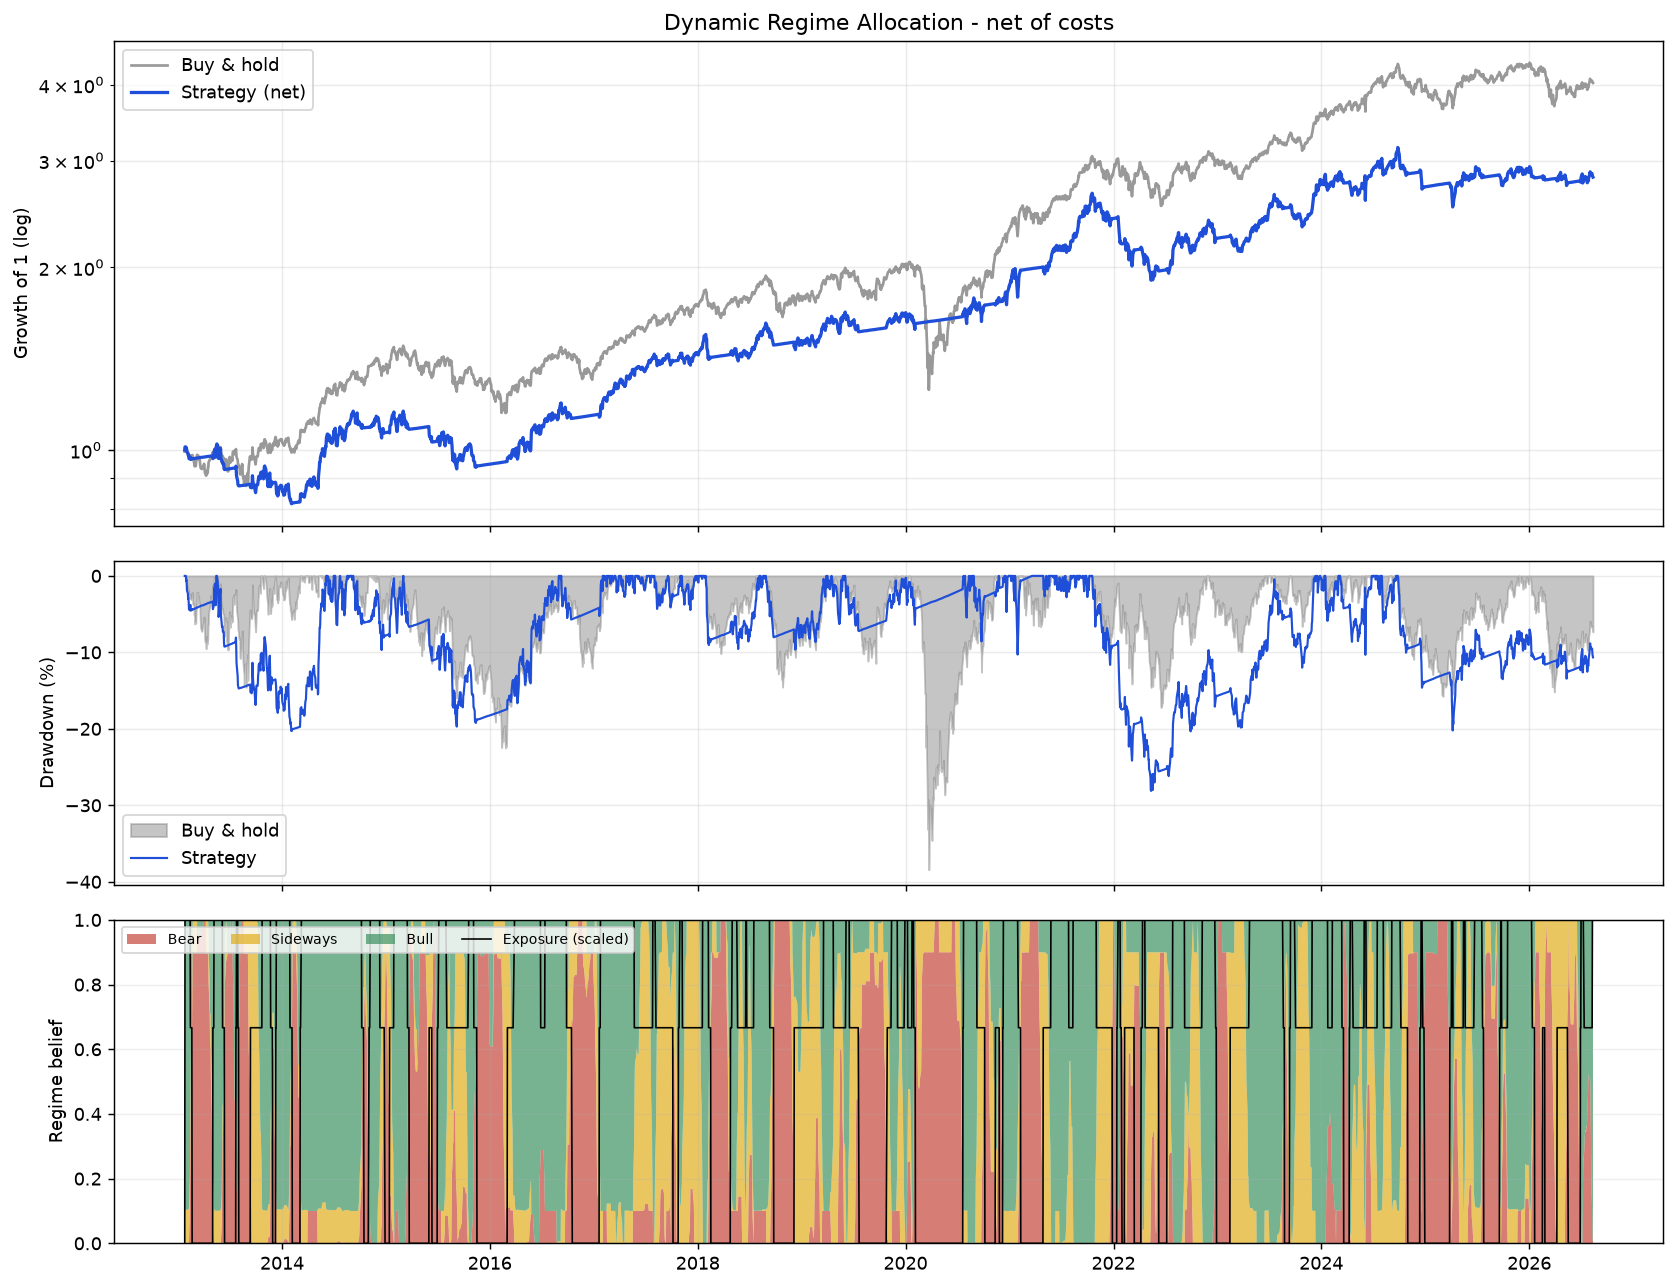
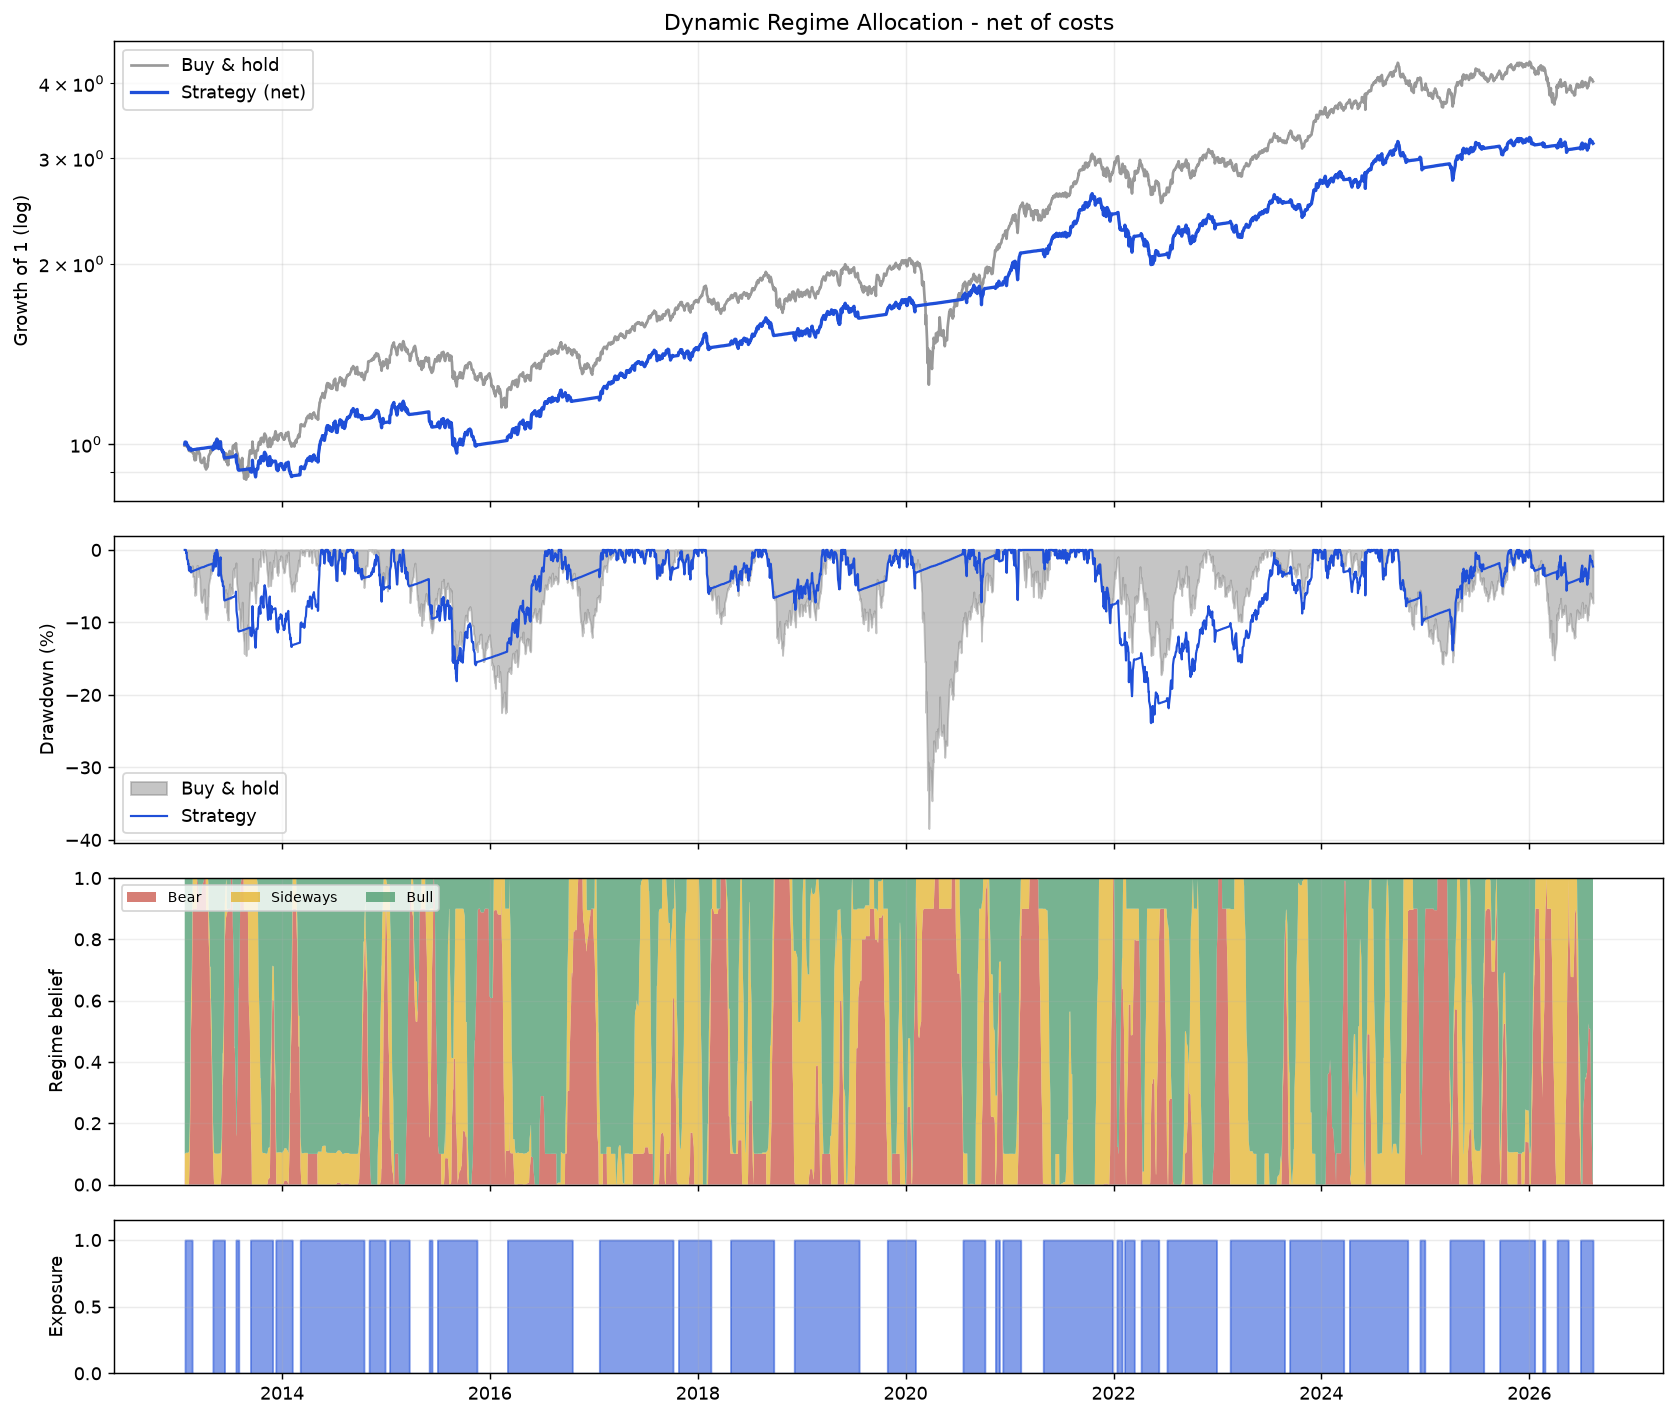
Rewrite README around measured results; add LICENSE and chart fixes
The README's headline numbers came from a backtest with several accounting
bugs, so every figure is re-measured and re-stated:

- Report the honest comparison. The strategy trails buy & hold on CAGR and
  Sharpe and wins on drawdown and Calmar; say so plainly rather than leading
  with a near-tie on total return.
- Correct the backtest period to 2013-2026. The first 1,250 days are the
  initial training window; padding them with a uniform prior kept the strategy
  in cash through 2008 and produced a flat line that read as regime detection
  but was an untrained model sitting in cash at 6%.
- Document the 1.5x tier as off by default, with the side-by-side showing it
  loses on every risk-adjusted measure once financing and turnover are charged.
- Add a known-limitations section covering the warm-up, the single-asset
  sample, the unfitted thresholds, and close-fill assumptions.

Also: widen the metrics column so the date range stops colliding with the next
column, move exposure out of the belief stack into its own panel (as an overlay
its 0/1 flips drew a vertical line per transition and read as a picket fence),
and add the MIT LICENSE file the badge has always claimed.

diff --git a/regime_allocation/reporting.py b/regime_allocation/reporting.py
@@ -67,7 +67,7 @@ def plot_results(
     import matplotlib.pyplot as plt
 
     fig, axes = plt.subplots(
-        3, 1, figsize=(13, 10), sharex=True, gridspec_kw={"height_ratios": [3, 2, 2]}
+        4, 1, figsize=(13, 11), sharex=True, gridspec_kw={"height_ratios": [3, 2, 2, 1]}
     )
 
     ax = axes[0]
@@ -102,12 +102,21 @@ def plot_results(
         labels=["Bear", "Sideways", "Bull"],
         alpha=0.65,
     )
-    ax.plot(results.index, results["Position"] / max(results["Position"].max(), 1e-9),
-            color="black", linewidth=0.9, label="Exposure (scaled)")
     ax.set_ylim(0, 1)
     ax.set_ylabel("Regime belief")
-    ax.legend(loc="upper left", ncol=4, fontsize=8)
+    ax.legend(loc="upper left", ncol=3, fontsize=8)
     ax.grid(True, alpha=0.2)
+
+    # Exposure gets its own panel: overlaid on the belief stack, the 0/1 flips
+    # drew a vertical line at every transition and read as a picket fence.
+    ax = axes[3]
+    ax.fill_between(
+        results.index, results["Position"], 0, step="post", color="#1f4fd8", alpha=0.55
+    )
+    ax.set_ylim(0, max(float(results["Position"].max()) * 1.15, 1.15))
+    ax.set_ylabel("Exposure")
+    ax.set_xlabel("")
+    ax.grid(True, alpha=0.25)
 
     fig.tight_layout()
     if save_path:

diff --git a/regime_allocation/metrics.py b/regime_allocation/metrics.py
@@ -147,7 +147,7 @@ def _format(value, kind: str, stats: dict) -> str:
 def comparison_table(*stat_blocks: dict) -> str:
     """Render two or more statistics blocks side by side as a fixed-width table."""
     labels = [str(block.get("label", f"col{i}")) for i, block in enumerate(stat_blocks)]
-    width = max(22, *(len(label) + 2 for label in labels))
+    width = max(26, *(len(label) + 2 for label in labels))  # 26 fits "YYYY-MM-DD to YYYY-MM-DD"
     lines = ["Metric".ljust(26) + "".join(label.rjust(width) for label in labels)]
     lines.append("-" * len(lines[0]))
     for title, key, kind in _ROWS:

diff --git a/README.md b/README.md
@@ -1,101 +1,233 @@
-# Dynamic-Regime-Allocation 
+# Dynamic-Regime-Allocation
 
-### A Fee-Aware, Regime-Switching Asset Allocation Strategy using Gaussian HMMs
+### A fee-aware, regime-switching allocation strategy using Gaussian HMMs
 
-![Python](https://img.shields.io/badge/Python-3.8%2B-blue)
+![Python](https://img.shields.io/badge/Python-3.9%2B-blue)
 ![License](https://img.shields.io/badge/License-MIT-green)
-![Status](https://img.shields.io/badge/Status-Active-success)
+![Tests](https://img.shields.io/badge/tests-49%20passing-success)
 
-## 📖 Overview
+## Overview
 
-**Dynamic-Regime-Allocation** is a quantitative trading strategy designed for the **Nifty 50** index. Unlike traditional forecasting models that attempt to predict exact prices, this system uses **Unsupervised Learning (Gaussian Hidden Markov Models)** to decode latent market regimes (Bull, Bear, and Sideways).
+**Dynamic-Regime-Allocation** allocates between the **Nifty 50** and cash. Rather
+than forecasting prices, it uses an unsupervised **Gaussian Hidden Markov Model**
+to infer which of three latent regimes — bull, sideways, bear — the market is
+currently in, and sizes exposure from those probabilities.
 
-The primary objective is **Risk-Adjusted Return**. The strategy dynamically adjusts portfolio leverage based on the identified regime, aiming to capture market upside while preserving capital during structural downtrends (e.g., 2008, 2020).
-
-> **Key Differentiator:** This is not a theoretical model. It includes a rigorous **Transaction Cost Analysis (TCA)**, factoring in brokerage fees, slippage, and the yield on idle cash (Liquid BeEs), making the results audit-ready and deployable.
-
----
-
-## Performance (2007–2025)
-
-The strategy was backtested over an 18-year period covering multiple market cycles.
-
-| Metric | Market (Buy & Hold) | HMM Strategy |
-| :--- | :--- | :--- |
-| **Net Return** | **319.27%** | **311.01%** |
-| **Drawdown Risk** | High (-60% in 2008) | Significantly Reduced |
-| **Total Trades** | N/A | **57** (Low Churn) |
-| **Fees Paid** | 0.0% | ~5.6% of Capital |
-
-**Visual Analysis:**
-The strategy matches the market's long-term compounding but avoids the "emotional torture" of deep drawdowns. Note the flat-lining (protection) during the 2008 and 2020 crashes.
-
-<img width="2559" height="1514" alt="image" src="https://github.com/user-attachments/assets/78c80e27-fb17-455d-8f0b-9da460899ad8" />
+The model is fit **walk-forward**: every 10 trading days it is refit on the
+trailing 5 years and then scores only the 10 days that follow. No parameter,
+scaler, or state label is ever derived from a bar the model has already been
+asked to trade.
 
 ---
 
-## 🛠 Methodology
+## Results (2013-01-24 → 2026-08-13, net of costs)
 
-### 1. Feature Engineering
-We feed the HMM three distinct features to separate market states:
-* **Volatility:** 20-day annualized rolling standard deviation (Risk Proxy).
-* **Trend (Z-Score):** Price distance from the 50-day Moving Average (Trend Proxy).
-* **Momentum:** 14-day price difference (Velocity Proxy).
+| Metric | Strategy | Buy & hold |
+| :--- | ---: | ---: |
+| Total return | 217.68% | **302.95%** |
+| CAGR | 8.91% | **10.83%** |
+| Volatility (ann.) | **11.12%** | 16.18% |
+| Sharpe (vs cash) | 0.30 | **0.36** |
+| Sortino | 0.35 | **0.46** |
+| **Max drawdown** | **-23.89%** | -38.44% |
+| **Calmar** | **0.37** | 0.28 |
+| Longest underwater | 776 d | **741 d** |
+| Worst day | **-5.93%** | -12.98% |
+| Time in market | 69.01% | 100% |
+| Trades | 65 | — |
+| Costs paid | 6.50% of capital | — |
 
-### 2. Unsupervised Learning (Gaussian HMM)
-The model assumes the market operates in three hidden states. It calculates the probability of being in each state daily:
-* 🟢 **Bull Regime:** Low Volatility, Positive Trend.
-* 🟠 **Sideways Regime:** Mixed Volatility, Mean Reverting.
-* 🔴 **Bear Regime:** High Volatility, Negative Trend.
+**Read this honestly.** The strategy does *not* beat the index. It gives up
+about 2 points of CAGR and lands slightly behind on Sharpe. What it buys is a
+materially smaller hole: max drawdown falls by a third, the worst single day is
+less than half as bad, and Calmar — return per unit of worst-case pain — is the
+one headline measure where it wins. Whether that trade is worth making is a
+question about the holder, not about the model.
 
-### 3. Signal Smoothing (The "Churn Killer")
-To prevent "whipsaw" losses (buying/selling every day), we apply a **10-day Moving Average** to the regime probabilities. The model must sustain a signal for ~2 weeks before capital is committed. This reduced total trades from **441** to **57**.
+![Performance](docs/performance.png)
 
-### 4. Fee-Aware Backtest Engine
-* **Transaction Costs:** 0.1% per trade (Brokerage + STT + Slippage).
-* **Cash Yield:** Idle cash (when not invested) earns a **6% annualized return**, simulating parking capital in Liquid BeEs or Overnight Funds.
+### What actually happened in 2020
 
----
+The COVID crash is the model's best moment and it is a genuine one. It exited on
+**2020-02-05** at 12,089 — three sessions after `P(Bear)` crossed the threshold,
+and within 2% of the all-time high — and stayed in cash through the bottom.
 
-## 🚀 Strategy Logic
-
-| Market Regime | Signal Confidence | Action | Leverage |
-| :--- | :--- | :--- | :--- |
-| **Strong Bull** | P(Bull) > 80% | **Aggressive Buy** | 1.5x |
-| **Bull** | P(Bull) > 60% | **Standard Buy** | 1.0x |
-| **Sideways** | P(Side) > 60% & Dip | **Buy the Dip** | 1.0x |
-| **Bear** | P(Bear) > 60% | **Sell / Cash** | 0x |
-
----
-
-## 💻 Installation & Usage
-
-1.  **Clone the repository:**
-    ```bash
-    git clone [https://github.com/SahilMotyar/Dynamic-Regime-Allocation.git](https://github.com/SahilMotyar/Dynamic-Regime-Allocation.git)
-    cd Dynamic-Regime-Allocation
-    ```
-
-2.  **Install dependencies:**
-    ```bash
-    pip install yfinance pandas numpy matplotlib hmmlearn scikit-learn
-    ```
-
-3.  **Run the strategy:**
-    ```bash
-    python hmm.py
-    ```
+| | Feb–Apr 2020 drawdown |
+| :--- | ---: |
+| Buy & hold | -38.4% |
+| Strategy | **-5.3%** |
 
 ---
 
-## 📡 Live Trade Signal
+## Methodology
 
-The script concludes by generating a **Live "Trade Card"** for the current day. It retrains the model on the most recent data to provide an actionable recommendation.
+### 1. Features
 
-**Example Output (2026-01-23):**
-<img width="753" height="881" alt="image" src="https://github.com/user-attachments/assets/2e771263-da3c-4cfc-b3c1-dc7a983bb2d2" />
+Three scale-free inputs, so a window from 2013 (Nifty ~6,000) and one from 2026
+(Nifty ~24,000) live on the same axes:
+
+* **Volatility** — 20-day annualised rolling stdev of returns.
+* **Trend (Z-score)** — price distance from its 50-day mean, in sigmas.
+* **Momentum** — trailing 14-day *return*.
+
+### 2. Walk-forward Gaussian HMM
+
+Refit every 10 days on a trailing 1,250-day window, best-of-3 EM restarts by
+in-sample log-likelihood. Latent state labels are arbitrary and permute between
+fits, so states are re-identified each window by their mean trend feature and
+ordered bear → sideways → bull.
+
+### 3. Belief smoothing
+
+A 10-day moving average is applied to the regime probabilities, so a signal must
+persist for about two weeks before capital moves. This is the main churn
+control: it holds the strategy to 65 trades across 13 years.
+
+### 4. Cost model
+
+* **Friction** — 0.1% per unit of exposure traded (brokerage + STT + slippage).
+* **Cash yield** — un-invested capital earns 6% annualised (liquid/overnight funds).
+* **Financing** — exposure above 1x is charged 6% + 2% spread.
+
 ---
 
-## 📜 Disclaimer
+## Allocation rule
 
-*This project is for educational and research purposes only. It does not constitute financial advice. Algorithmic trading involves significant risk. Past performance is not indicative of future results.*
+| Regime | Condition | Exposure |
+| :--- | :--- | ---: |
+| Strong bull | P(Bull) > 80% | 1.5x *(off by default — see below)* |
+| Bull | P(Bull) > 60% | 1.0x |
+| Sideways | P(Side) > 60% and Z > -0.5 | 1.0x |
+| Bear | P(Bear) > 60% | 0x |
+
+The rule is deliberately **sticky**: once invested, only a bear reading returns
+it to cash. Exiting on "not bullish enough" was what produced most of the churn.
+The 80% / 75% pair forms a hysteresis band so the top tier cannot flip on and
+off around a single threshold.
+
+### On the 1.5x tier
+
+The aggressive tier ships **disabled** (`leverage_max = 1.0`). It is implemented
+and correct — enable it with `--leverage-max 1.5` — but on this data it makes
+every risk-adjusted measure worse once financing and the extra turnover are
+charged for:
+
+| | 1.0x (default) | 1.5x tier enabled |
+| :--- | ---: | ---: |
+| CAGR | **8.91%** | 7.94% |
+| Sharpe | **0.30** | 0.20 |
+| Max drawdown | **-23.89%** | -28.12% |
+| Calmar | **0.37** | 0.28 |
+| Trades | **65** | 159 |
+| Costs paid | **6.50%** | 11.25% |
+
+---
+
+## Installation & usage
+
+```bash
+git clone https://github.com/SahilMotyar/Dynamic-Regime-Allocation.git
+cd Dynamic-Regime-Allocation
+pip install -r requirements.txt
+python hmm.py
+```
+
+Every assumption is a flag; `python hmm.py --help` lists them all.
+
+```bash
+# a different index, and no chart window
+python hmm.py --ticker ^GSPC --start 2005-01-01 --no-plot
+
+# stress the cost assumptions
+python hmm.py --tx-cost 0.003 --cash-rate 0.04
+
+# enable the aggressive tier, save the outputs
+python hmm.py --leverage-max 1.5 --save-plot docs/levered.png --save-csv outputs/levered.csv
+```
+
+Prices are cached under `data_cache/` and reused for the rest of the day; pass
+`--refresh` to force a re-download.
+
+### Tests
+
+```bash
+pip install -r requirements-dev.txt
+pytest
+```
+
+49 tests, no network access required — the model tests run against a synthetic
+two-regime price path.
+
+---
+
+## Live signal
+
+The run ends with a trade card for the next session. It reads the target
+exposure straight out of the backtest's final row, so the recommendation is by
+construction the same rule that produced the table above.
+
+```
+==========================================================
+                 LIVE SIGNAL - 2026-08-13
+==========================================================
+  Last close                   24,395.85
+  Trend (Z-score)                   0.84 sigma
+  Volatility (ann.)                10.3%
+----------------------------------------------------------
+  Regime beliefs (smoothed):
+    Bear                            0.4%
+    Sideways                        0.1%
+    Bull                           99.5%
+----------------------------------------------------------
+  Currently held                   1.00x
+  Target exposure                  1.00x
+  Regime               INVESTED - standard, 1.00x
+  Action                           HOLD
+==========================================================
+```
+
+---
+
+## Known limitations
+
+* **The backtest starts in 2013, not 2007.** The first 1,250 trading days are
+  consumed by the initial training window. Earlier versions padded that warm-up
+  with a uniform 1/3 prior, which kept the strategy in cash — earning 6% — right
+  through 2008. That produced a flat line across the crash that looked like
+  regime detection but was just an untrained model sitting in cash. The warm-up
+  is now `NaN` and those rows are dropped.
+* **One asset, one market.** Results on Nifty over one 13-year sample; the
+  thresholds have not been validated out-of-sample on other indices.
+* **Thresholds are hand-set**, not fit. They have not been walk-forward
+  optimised, which is a virtue (nothing is fit to the test period) and a
+  limitation (nothing says they are near-optimal).
+* **No slippage model on gaps.** Exits are filled at the close of the signal
+  day; a genuine crash open would fill worse.
+* **Survivorship and index reconstitution** in the underlying Nifty series are
+  taken as given from the data provider.
+
+---
+
+## Project layout
+
+```
+regime_allocation/
+  config.py      dataclasses holding every tunable parameter
+  data.py        download, on-disk cache, feature engineering
+  model.py       walk-forward HMM, state ordering, belief smoothing
+  strategy.py    the allocation rule (shared by backtest and live signal)
+  backtest.py    position lagging and net-of-cost PnL accounting
+  metrics.py     risk/return statistics and the comparison table
+  reporting.py   trade card and charts
+  cli.py         argument parsing and orchestration
+hmm.py           entry point: python hmm.py
+tests/           49 tests, no network required
+```
+
+---
+
+## Disclaimer
+
+*Educational and research use only. This is not financial advice. Algorithmic
+trading carries significant risk, and past performance does not indicate future
+results.*
